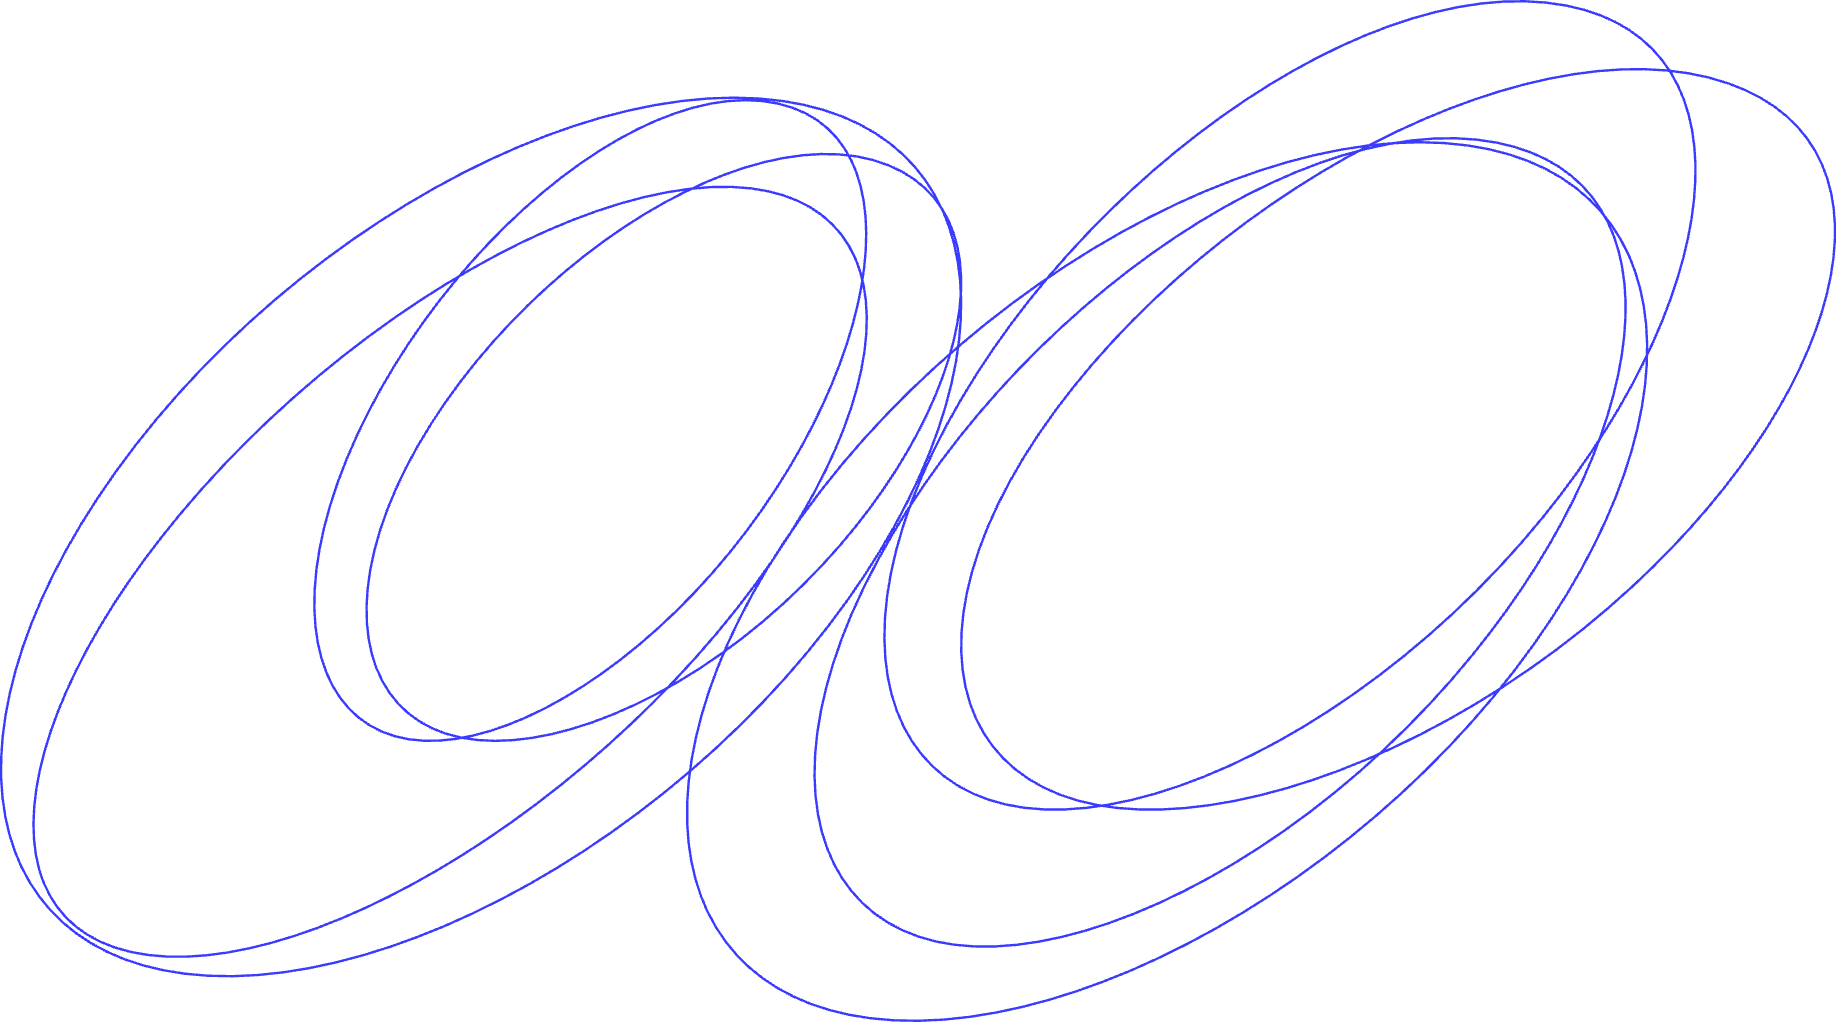
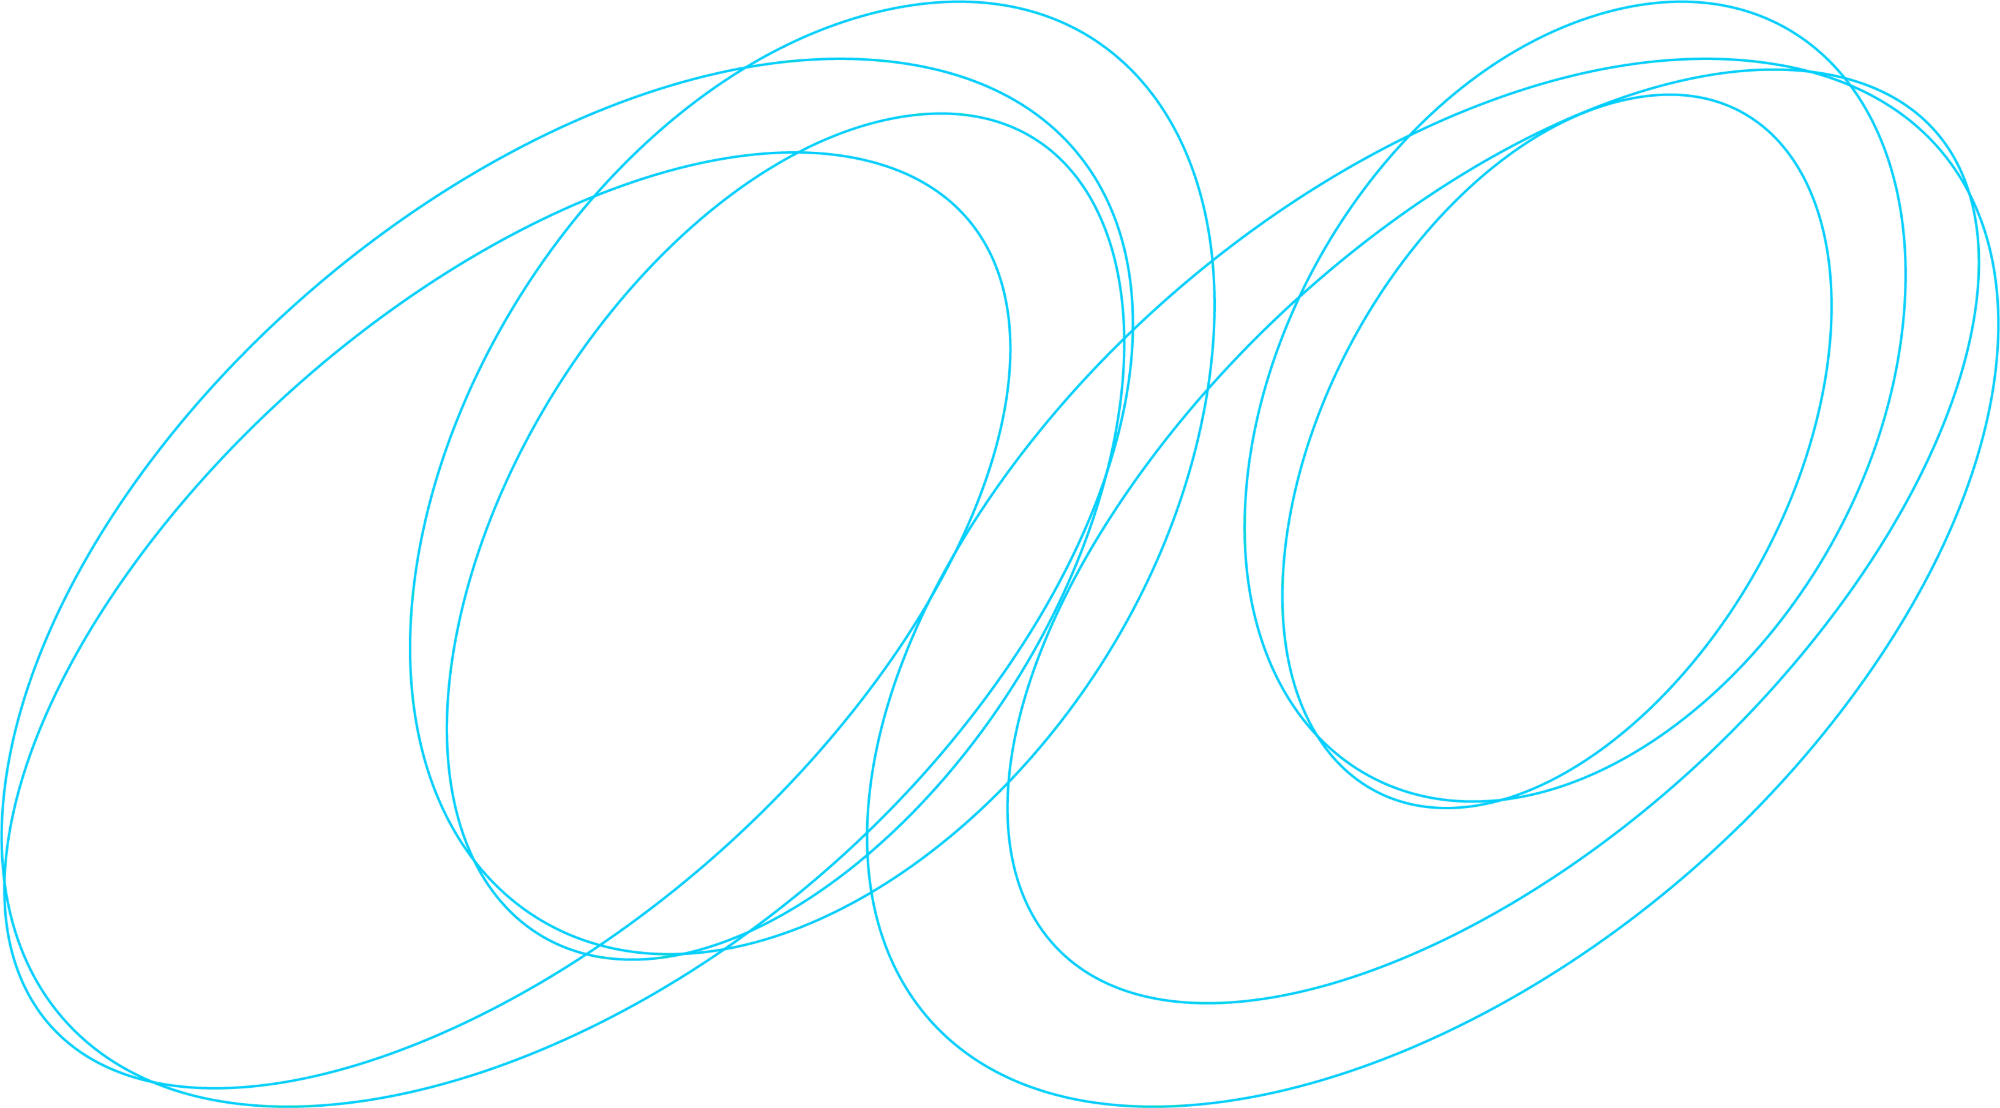
KHUN: user-supplied construction guide and sight eyes for SIGHT tile

diff --git a/work/studiokhun.html b/work/studiokhun.html
@@ -19,7 +19,7 @@
   <link rel="preconnect" href="https://fonts.gstatic.com" crossorigin>
   <link rel="stylesheet" href="https://fonts.googleapis.com/css2?family=Instrument+Serif:ital@0;1&family=Noto+Sans+KR:wght@300;400;500&display=swap">
   <link rel="stylesheet" href="https://cdn.jsdelivr.net/npm/galmuri@latest/dist/galmuri.css">
-  <link rel="stylesheet" href="../styles.css?v=94">
+  <link rel="stylesheet" href="../styles.css?v=95">
 </head>
 <body>
   <header class="hud">
@@ -90,12 +90,12 @@
       <div class="guide kg">
         <p class="guide__label"><b>01</b> CONSTRUCTION</p>
         <div class="kg-cons">
-          <figure class="kg-cons__stage"><img class="kg-cons__grid" src="../assets/studiokhun/guide/grid-a.png?v=3" alt="심볼 위로 쓱쓱 돌려 그린 타원 낙서"><img class="kg-cons__line" src="../assets/studiokhun/guide/grid-outline.png?v=3" alt="타원 위에 그려진 심볼의 외곽선"><img class="kg-cons__mark" src="../assets/studiokhun/guide/grid-mark.png?v=3" alt="타원 위에 채워진 심볼"></figure>
+          <figure class="kg-cons__stage"><img class="kg-cons__grid" src="../assets/studiokhun/guide/grid-a.png?v=4" alt="심볼 위로 쓱쓱 돌려 그린 타원 낙서"><img class="kg-cons__line" src="../assets/studiokhun/guide/grid-outline.png?v=4" alt="타원 위에 그려진 심볼의 외곽선"><img class="kg-cons__mark" src="../assets/studiokhun/guide/grid-mark.png?v=4" alt="타원 위에 채워진 심볼"></figure>
           <figcaption>낙서처럼 자유롭게 돌린 타원에서 출발해, <b>움직임은 남기고 우연은 걷어낸</b> 심볼입니다. 두 고리는 한글 ‘쿤’의 ㅋ과 ㅜㄴ이자 서로를 바라보는 두 시선이고, 그 교차는 미지수 x가 됩니다. 겹친 타원의 궤적에서 <b>시선과 진동의 흐름</b>을 찾아 두 개의 고리로 구조화하고, 교차하는 지점을 기준으로 획을 정리해 하나의 표식으로 완성했습니다. <b>즉흥적인 손의 리듬은 남기되, 형태는 일관된 기울기와 비례로 통제</b>했습니다.</figcaption>
         </div>
         <p class="guide__label"><b>02</b> CODE</p>
         <ul class="kg-mean">
-          <li><div class="kg-tile kg-tile--wheel"><div class="kg-wheels"><img class="kg-pair__b" src="../assets/studiokhun/guide/loop-b.png?v=3" alt="굴러가는 눈동자 같은 고리"><img class="kg-pair__a" src="../assets/studiokhun/guide/loop-a.png?v=3" alt=""></div></div><span>SIGHT</span><b>시선</b>브랜드를 새롭게 읽어내는 시선의 궤도</li>
+          <li><div class="kg-tile kg-tile--wheel"><div class="kg-wheels kg-wheels--eyes"><img class="kg-pair__b" src="../assets/studiokhun/guide/sight-l.png" alt="왼쪽 눈"><img class="kg-pair__a" src="../assets/studiokhun/guide/sight-r.png" alt="오른쪽 눈"></div></div><span>SIGHT</span><b>시선</b>브랜드를 새롭게 읽어내는 시선의 궤도</li>
           <li><div class="kg-tile kg-tile--vib"><canvas class="kg-vib" aria-label="잔잔하던 바이탈 선이 충격을 받아 격렬하게 흔들리는 모션"></canvas></div><span>RE:VIBE</span><b>진동</b>멈춘 브랜드를 다시 울리고 굴러가게 하는 파동</li>
           <li><div class="kg-tile kg-tile--khun"><img src="../assets/studiokhun/guide/k-hand.png?v=2" alt="한글 쿤의 필획"><img src="../assets/studiokhun/guide/k-bold.png?v=2" alt="필획을 이어 흐름을 만든 쿤"><img src="../assets/studiokhun/guide/k-mark.png?v=3" alt="완성된 심볼"></div><span>KHUN</span><b>쿤</b>한글 ‘쿤’의 필획과 리듬을 응축한 이름의 상징</li>
           <li><div class="kg-tile kg-tile--x"><em>f(</em><img src="../assets/studiokhun/khun-mark.svg?v=3" alt="미지수 x처럼 보이는 심볼"><em>)</em></div><span>X</span><b>미지수</b>새로운 시선으로 다시 답을 구하는 브랜드의 가능성</li>

diff --git a/styles.css b/styles.css
@@ -939,7 +939,7 @@ body { padding-bottom: 44px; }
 /* KHUN studio 아이덴티티 가이드 */
 .kg { margin-top: clamp(24px, 3vw, 40px); }
 .kg-cons { display: grid; grid-template-columns: minmax(0, 420px) 1fr; gap: clamp(16px, 2.4vw, 32px); align-items: center; }
-.kg-cons__stage { position: relative; display: grid; margin: 0; aspect-ratio: 918 / 511; background: #fff; border: 1px solid var(--line); overflow: hidden; }
+.kg-cons__stage { position: relative; display: grid; margin: 0; aspect-ratio: 2000 / 1108; background: #fff; border: 1px solid var(--line); overflow: hidden; }
 .kg-cons__stage img { grid-area: 1 / 1; width: 100%; height: 100%; object-fit: contain; }
 .kg-cons__grid { opacity: .9; }
 .kg-cons__line { animation: kgline 8s ease-in-out infinite; }
@@ -1038,3 +1038,4 @@ body { padding-bottom: 44px; }
 .web__thumbs { display: grid; grid-template-columns: repeat(3, 1fr); gap: 10px; }
 .cp-out .web__prog img { display: block; width: 100%; height: auto; border: 1px solid var(--line); }
 @media (max-width: 700px) { .web__banners { grid-template-columns: 1fr; } .web__thumbs { grid-template-columns: 1fr 1fr; } }
+.kg-wheels--eyes img { filter: none; } /* 흰 눈 원본을 그대로 */

diff --git a/work/airforce.html b/work/airforce.html
@@ -19,7 +19,7 @@
   <link rel="preconnect" href="https://fonts.gstatic.com" crossorigin>
   <link rel="stylesheet" href="https://fonts.googleapis.com/css2?family=Instrument+Serif:ital@0;1&family=Noto+Sans+KR:wght@300;400;500&display=swap">
   <link rel="stylesheet" href="https://cdn.jsdelivr.net/npm/galmuri@latest/dist/galmuri.css">
-  <link rel="stylesheet" href="../styles.css?v=94">
+  <link rel="stylesheet" href="../styles.css?v=95">
 </head>
 <body>
   <header class="hud">

diff --git a/work/mogak.html b/work/mogak.html
@@ -19,7 +19,7 @@
   <link rel="preconnect" href="https://fonts.gstatic.com" crossorigin>
   <link rel="stylesheet" href="https://fonts.googleapis.com/css2?family=Instrument+Serif:ital@0;1&family=Noto+Sans+KR:wght@300;400;500&display=swap">
   <link rel="stylesheet" href="https://cdn.jsdelivr.net/npm/galmuri@latest/dist/galmuri.css">
-  <link rel="stylesheet" href="../styles.css?v=94">
+  <link rel="stylesheet" href="../styles.css?v=95">
 </head>
 <body>
   <header class="hud">

diff --git a/work/wingspeaking.html b/work/wingspeaking.html
@@ -19,7 +19,7 @@
   <link rel="preconnect" href="https://fonts.gstatic.com" crossorigin>
   <link rel="stylesheet" href="https://fonts.googleapis.com/css2?family=Instrument+Serif:ital@0;1&family=Noto+Sans+KR:wght@300;400;500&display=swap">
   <link rel="stylesheet" href="https://cdn.jsdelivr.net/npm/galmuri@latest/dist/galmuri.css">
-  <link rel="stylesheet" href="../styles.css?v=94">
+  <link rel="stylesheet" href="../styles.css?v=95">
 </head>
 <body>
   <header class="hud">

diff --git a/index.html b/index.html
@@ -20,7 +20,7 @@
   <link rel="preconnect" href="https://fonts.gstatic.com" crossorigin>
   <link rel="stylesheet" href="https://fonts.googleapis.com/css2?family=Instrument+Serif:ital@0;1&family=Noto+Sans+KR:wght@300;400;500&display=swap">
   <link rel="stylesheet" href="https://cdn.jsdelivr.net/npm/galmuri@latest/dist/galmuri.css">
-  <link rel="stylesheet" href="styles.css?v=94">
+  <link rel="stylesheet" href="styles.css?v=95">
 </head>
 <body>
   <header class="hud">
